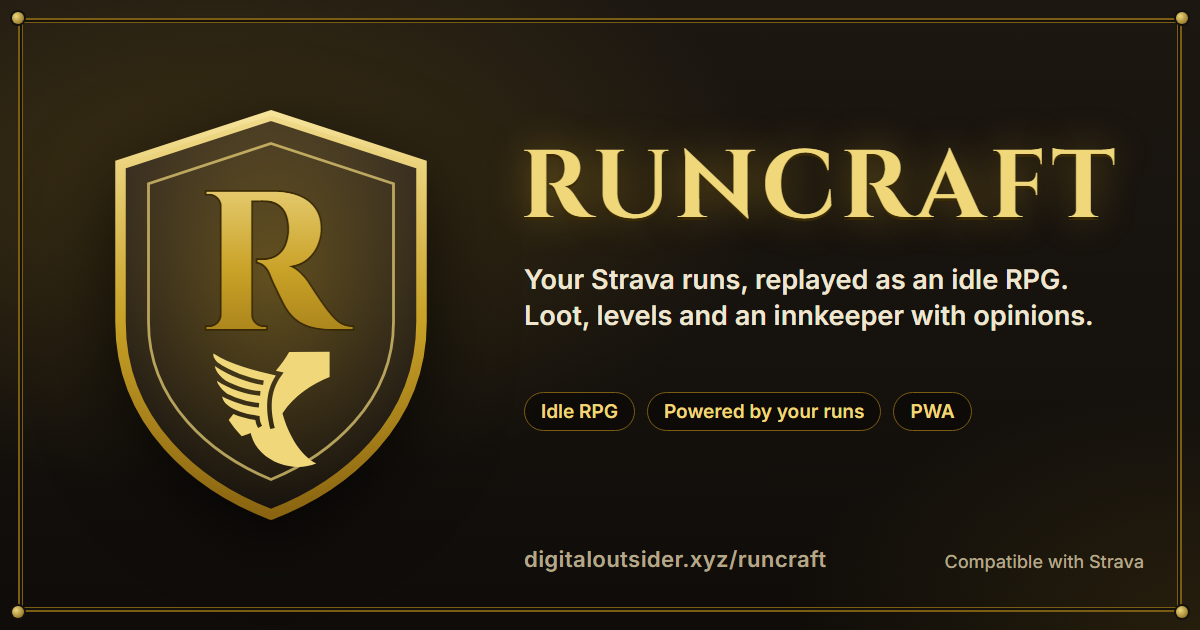
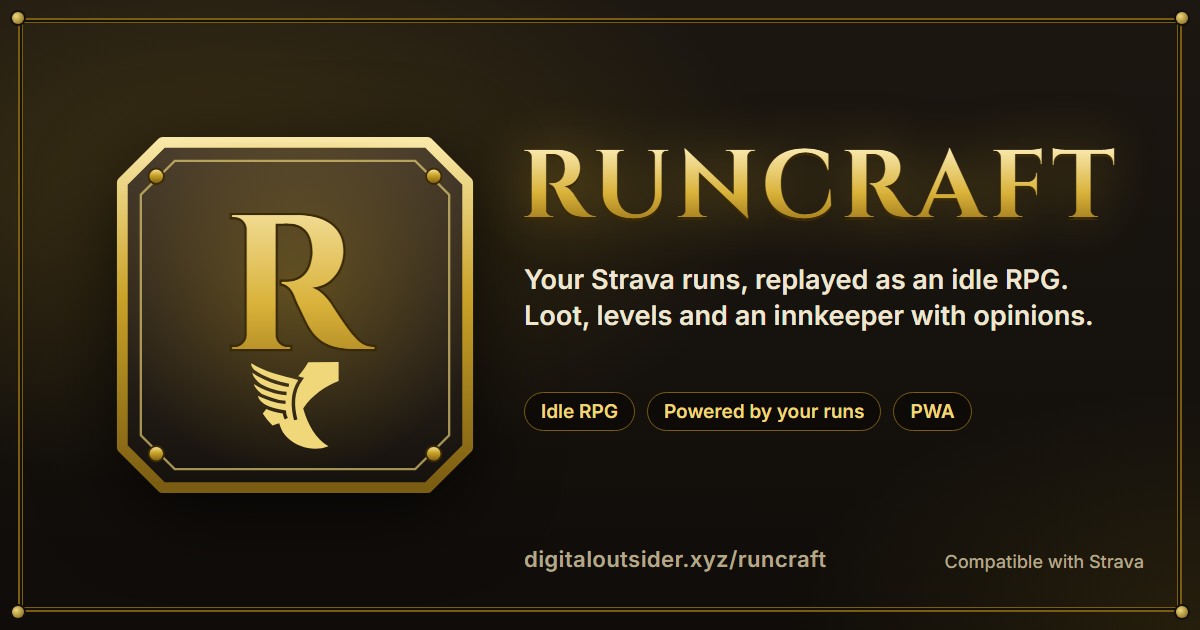
feat(runcraft): stone-plaque emblem, RPG wording with guilds/dungeons/battlegrounds hints

Changed region(s): [[0.0925, 0.181, 0.4008, 0.8444], [0.4317, 0.2111, 0.925, 0.3619]]

diff --git a/runcraft/index.html b/runcraft/index.html
@@ -4,12 +4,12 @@
 <meta charset="utf-8">
 <meta name="viewport" content="width=device-width, initial-scale=1">
 <title>Runcraft — turn your runs into an idle RPG</title>
-<meta name="description" content="Runcraft is an afk-MMORPG on top of your Strava runs. You run as usual; after every run your character replays it: skills trigger by distance, intervals and pace, loot drops, levels grow. Your data is shown only to you.">
+<meta name="description" content="Runcraft is an afk-RPG on top of your Strava runs. You run as usual; after every run your character replays it: skills trigger by distance, intervals and pace, loot drops, levels grow. Your data is shown only to you.">
 <link rel="canonical" href="https://digitaloutsider.xyz/runcraft/">
 <link rel="icon" type="image/svg+xml" href="icon.svg">
 <meta name="theme-color" content="#15110d">
 <meta property="og:title" content="Runcraft — turn your runs into an idle RPG">
-<meta property="og:description" content="An afk-MMORPG on top of your Strava runs: your character replays every run, skills trigger by distance, intervals and pace, loot drops. Your data is shown only to you.">
+<meta property="og:description" content="An afk-RPG on top of your Strava runs: your character replays every run, skills trigger by distance, intervals and pace, loot drops. Your data is shown only to you.">
 <meta property="og:type" content="website">
 <meta property="og:url" content="https://digitaloutsider.xyz/runcraft/">
 <meta property="og:site_name" content="Runcraft">
@@ -18,7 +18,7 @@
 <meta property="og:image:height" content="630">
 <meta name="twitter:card" content="summary_large_image">
 <meta name="twitter:title" content="Runcraft — turn your runs into an idle RPG">
-<meta name="twitter:description" content="An afk-MMORPG on top of your Strava runs: your character replays every run, skills trigger by distance, intervals and pace, loot drops.">
+<meta name="twitter:description" content="An afk-RPG on top of your Strava runs: your character replays every run, skills trigger by distance, intervals and pace, loot drops.">
 <meta name="twitter:image" content="https://digitaloutsider.xyz/runcraft/og.png">
 <link rel="preconnect" href="https://fonts.googleapis.com">
 <link rel="preconnect" href="https://fonts.gstatic.com" crossorigin>
@@ -242,12 +242,13 @@
   <section class="hero">
     <div class="kicker">A Digital Outsider project · Compatible with Strava</div>
     <h1>RUNCRAFT</h1>
-    <p class="lead">An afk-MMORPG that lives on top of your Strava runs. You run as usual. After every run your character replays it in a lovingly ironic homage to classic MMORPGs: skills trigger by distance, intervals and pace, loot drops, levels grow, and the innkeeper has opinions about your splits.</p>
+    <p class="lead">An afk-RPG that lives on top of your Strava runs. You run as usual. After every run your character replays it in a lovingly ironic homage to classic fantasy RPGs: skills trigger by distance, intervals and pace, loot drops, levels grow, and the innkeeper has opinions about your splits.</p>
     <div class="chips">
       <span class="chip">PWA · phone &amp; desktop</span>
       <span class="chip">Nothing runs during your run</span>
       <span class="chip">Your data is shown only to you</span>
     </div>
+    <p class="muted" style="margin:-6px auto 22px;max-width:62ch;font-size:15.5px">Solo for now. Guilds, dungeons and faction battlegrounds are on the road map.</p>
     <div class="btns">
       <a class="btn primary" href="#how">How it works</a>
       <a class="btn" href="privacy.html">Privacy policy</a>
@@ -504,7 +505,7 @@
     <div class="grid g3">
       <div class="frame"><h3>Prototype</h3><p class="muted" style="margin:0;font-size:15px">The simulation engine, the balance sandbox and real runs of the author. Autumn 2026, no public sign-ups.</p></div>
       <div class="frame"><h3>MVP</h3><p class="muted" style="margin:0;font-size:15px">The full loop as an installable web app for a small group of runners: characters, replays, loot, the Tavern, quests.</p></div>
-      <div class="frame"><h3>Release</h3><p class="muted" style="margin:0;font-size:15px">Open to everyone as Strava's athlete limits allow, with leaderboards on game stats, notifications and an innkeeper who comments on your run.</p></div>
+      <div class="frame"><h3>Release</h3><p class="muted" style="margin:0;font-size:15px">Open to everyone as Strava's athlete limits allow, with leaderboards on game stats, notifications and an innkeeper who comments on your run. Guilds, dungeons and faction battlegrounds come after that.</p></div>
     </div>
   </section>
 

diff --git a/index.html b/index.html
@@ -216,7 +216,7 @@
     <li>
       <a class="card" href="runcraft/">
         <div class="card-title"><strong>Runcraft</strong><span class="tag">In development</span></div>
-        <p>An idle RPG on top of your Strava runs: your character replays every run, skills trigger by distance, intervals and pace, loot drops. A lovingly ironic homage to classic MMORPGs.</p>
+        <p>An idle RPG on top of your Strava runs: your character replays every run, skills trigger by distance, intervals and pace, loot drops. A lovingly ironic homage to classic fantasy RPGs.</p>
         <div class="links"><span>About the project →</span></div>
       </a>
       <div class="links sub-links">
